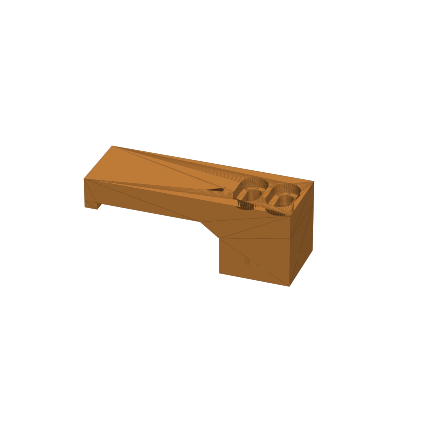
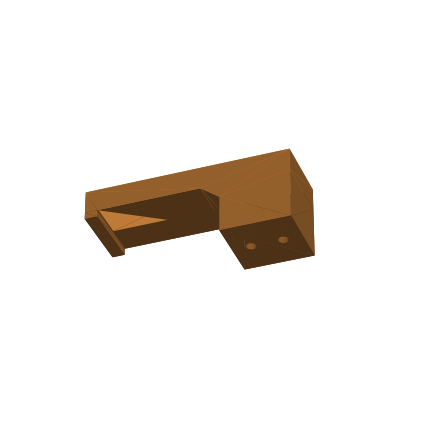
Mount cord-wrap bracket with screws from behind the grille
Claude-Session: https://claude.ai/code/session_01TJsV4Es7x7bHtZVv4Li8uQ

Changed region(s): [[0.1801, 0.3303, 0.7506, 0.6605]]

diff --git a/peavey-5150-cord-wrap/README.md b/peavey-5150-cord-wrap/README.md
@@ -12,10 +12,18 @@ Peavey 5150 / 6505 head. Print **two identical** parts.
   as strong as it can be, and you don't need supports.
 - 4 walls, 40% infill.
 
-## Mounting
-- Use two M4 (or #8-32) pan-head machine screws, about 35 mm (1-3/8") long, through the
-  bracket and an opening in the honeycomb grille. Put a fender washer and a nylock nut
-  behind the grille. The bolt holes are slotted so they can line up with the hex openings.
+## Mounting (screws from behind the grille)
+- Take the rear cage off. Hold each bracket in place on the outside and drive two screws
+  from the inside of the cage, through the hex openings, into the blind holes in the foot.
+  Nothing shows on the front.
+- Screws: #8 or M4 self-tapping screws for plastic (e.g. plastite / thread-forming), about
+  1/2" (12–14 mm) **plus** the grille thickness, with a washer big enough to bridge a hex
+  opening. The holes are 26 mm deep, so there's plenty of room.
+- Want to take them on and off a lot? Set `use_insert = true` in the .scad file and press
+  in M4 heat-set inserts, then use M4 machine screws.
+- Before you print, measure the centre-to-centre distance of two **side-by-side** grille
+  openings and set `hole_pitch` to it (the default is 10 mm). Both screws need to line up
+  with openings.
 - Mount the brackets level with each other, about 15" (390 mm) apart centre-to-centre, at the height of the
   middle of the power tubes, with the arms pointing **away** from each other. The parts are identical:
   rotate one 180°.
